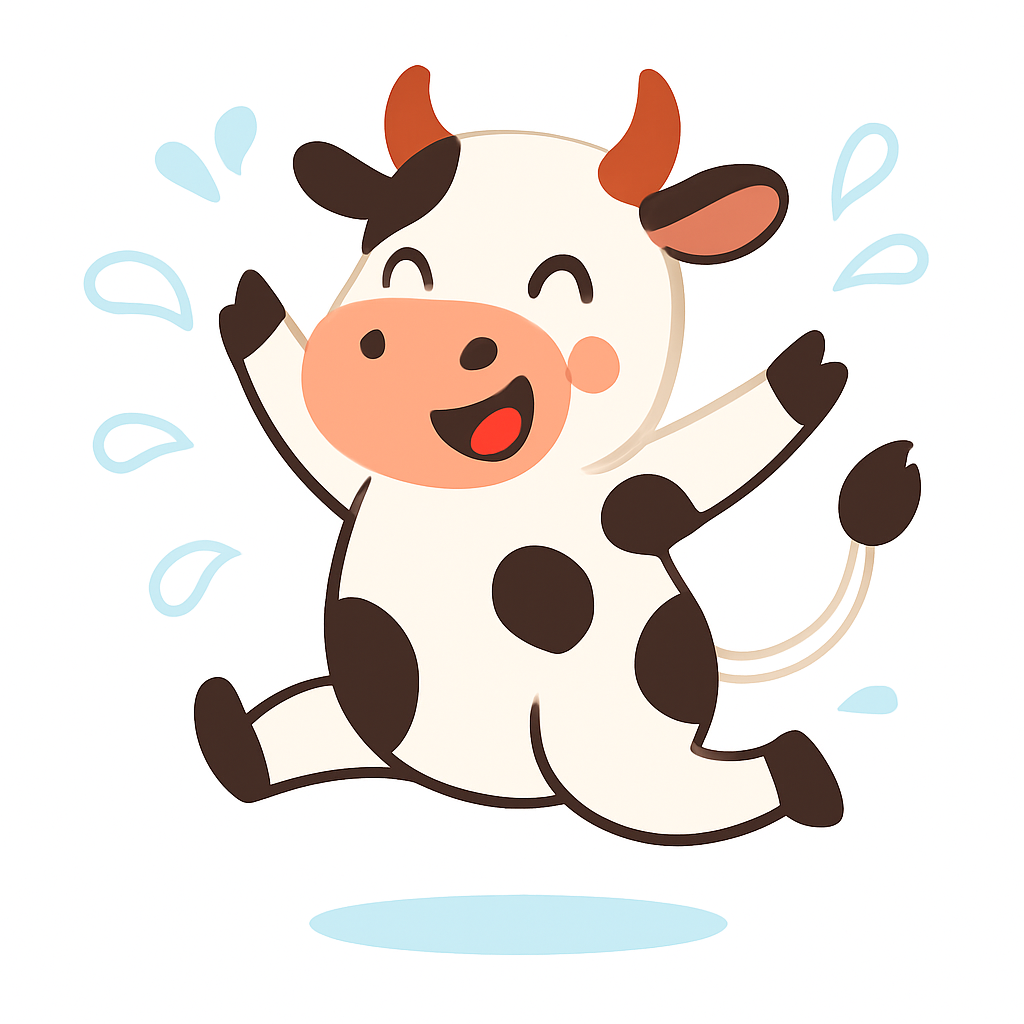
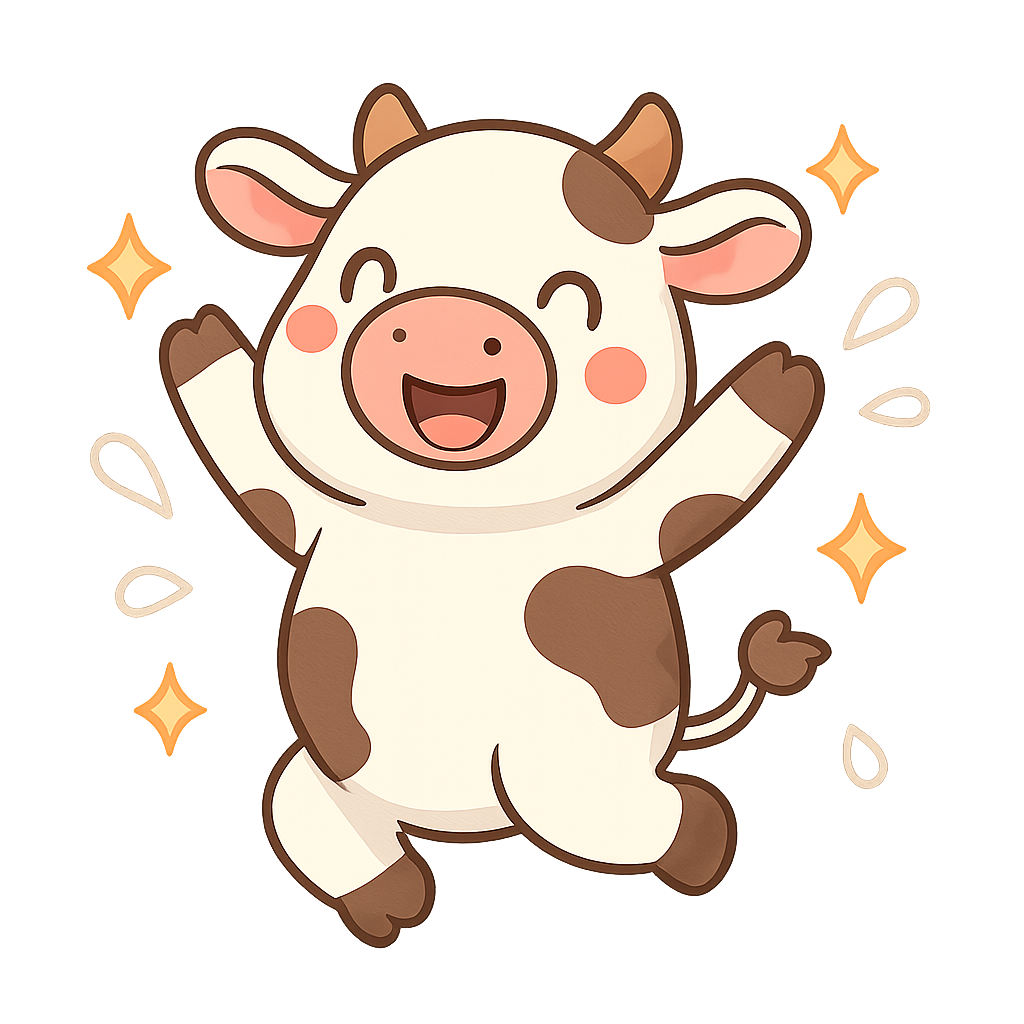
feat: add confetti animation and background effects to success page

diff --git a/app/success/page.tsx b/app/success/page.tsx
@@ -1,20 +1,38 @@
 "use client";
 
-import { useEffect, useState, Suspense } from "react";
+import { useEffect, useState, Suspense, useRef } from "react";
 import { useSearchParams } from "next/navigation";
 import Image from "next/image";
 import Link from "next/link";
-import { motion } from "framer-motion";
-import { CheckCircle2, ArrowRight, Loader2, Package } from "lucide-react";
+import { motion, useAnimationControls } from "framer-motion";
+import { CheckCircle2, ArrowRight, Loader2, Package, Sparkles } from "lucide-react";
 import { Button } from "@/components/ui/button";
 import { Separator } from "@/components/ui/separator";
-import { Badge } from "@/components/ui/badge";
 import type { Order } from "@/types";
+
+// Confetti particle
+function ConfettiParticle({ delay, x, color }: { delay: number; x: number; color: string }) {
+  return (
+    <motion.div
+      className="absolute top-0 w-2 h-3 rounded-sm"
+      style={{ left: `${x}%`, backgroundColor: color }}
+      initial={{ y: -20, opacity: 1, rotate: 0 }}
+      animate={{ y: "100vh", opacity: [1, 1, 0], rotate: 360 * 3 }}
+      transition={{ duration: 2.5 + Math.random(), delay, ease: "easeIn" }}
+    />
+  );
+}
+
+const CONFETTI = Array.from({ length: 30 }, (_, i) => ({
+  id: i,
+  delay: Math.random() * 1.2,
+  x: Math.random() * 100,
+  color: ["#3B82F6", "#60A5FA", "#BFDBFE", "#FDE68A", "#6EE7B7", "#FCA5A5"][Math.floor(Math.random() * 6)],
+}));
 
 function SuccessContent() {
   const searchParams = useSearchParams();
   const orderNumber = searchParams.get("order");
-
   const [order, setOrder] = useState<Order | null>(null);
   const [loading, setLoading] = useState(true);
 
@@ -29,120 +47,153 @@ function SuccessContent() {
 
   if (loading) {
     return (
-      <div className="py-20 flex items-center justify-center">
+      <div className="min-h-[60vh] flex items-center justify-center">
         <Loader2 className="size-8 animate-spin text-primary" />
       </div>
     );
   }
 
   return (
-    <div className="py-10">
-      <div className="container mx-auto px-4 max-w-lg">
+    <div className="relative min-h-[calc(100vh-80px)] overflow-hidden">
+      {/* Confetti */}
+      <div className="pointer-events-none fixed inset-0 z-50 overflow-hidden">
+        {CONFETTI.map((p) => (
+          <ConfettiParticle key={p.id} delay={p.delay} x={p.x} color={p.color} />
+        ))}
+      </div>
+
+      {/* Background blobs */}
+      <div className="absolute inset-0 pointer-events-none">
+        <div className="absolute top-0 left-1/4 w-96 h-96 bg-primary/5 rounded-full blur-3xl" />
+        <div className="absolute bottom-10 right-1/4 w-72 h-72 bg-blue-100/60 rounded-full blur-3xl" />
+      </div>
+
+      <div className="relative container mx-auto px-4 max-w-2xl py-12 flex flex-col items-center gap-10">
+
+        {/* Cow hero */}
         <motion.div
-          initial={{ opacity: 0, y: 24 }}
-          animate={{ opacity: 1, y: 0 }}
-          transition={{ duration: 0.45 }}
-          className="bg-card border border-border rounded-2xl overflow-hidden"
+          initial={{ scale: 0.5, opacity: 0, y: 20 }}
+          animate={{ scale: 1, opacity: 1, y: 0 }}
+          transition={{ type: "spring", stiffness: 200, damping: 15 }}
+          className="relative"
         >
-          {/* Top banner with cow */}
-          <div className="bg-primary/5 border-b border-border flex flex-col items-center gap-2 pt-8 pb-0">
+          <motion.div
+            animate={{ y: [0, -12, 0] }}
+            transition={{ duration: 2.2, repeat: Infinity, ease: "easeInOut" }}
+          >
+            <Image
+              src="/happy-cow.png"
+              alt="Весёлая корова"
+              width={220}
+              height={220}
+              className="object-contain drop-shadow-xl"
+              priority
+            />
+          </motion.div>
+          {/* Sparkles around cow */}
+          {[[-30, -10], [30, -20], [-20, 30], [40, 20]].map(([ox, oy], i) => (
             <motion.div
-              initial={{ scale: 0.7, opacity: 0 }}
+              key={i}
+              className="absolute"
+              style={{ left: `calc(50% + ${ox}px)`, top: `calc(50% + ${oy}px)` }}
+              animate={{ scale: [0, 1.2, 0], opacity: [0, 1, 0] }}
+              transition={{ duration: 1.5, delay: i * 0.3, repeat: Infinity, repeatDelay: 1 }}
+            >
+              <Sparkles className="size-5 text-yellow-400" />
+            </motion.div>
+          ))}
+        </motion.div>
+
+        {/* Main text */}
+        <motion.div
+          initial={{ opacity: 0, y: 20 }}
+          animate={{ opacity: 1, y: 0 }}
+          transition={{ delay: 0.25 }}
+          className="text-center flex flex-col gap-3"
+        >
+          <div className="flex items-center justify-center gap-2">
+            <CheckCircle2 className="size-8 text-green-500 shrink-0" />
+            <h1 className="text-4xl font-bold text-foreground text-balance">Спасибо за заказ!</h1>
+          </div>
+          <p className="text-lg text-muted-foreground text-balance">
+            Оплата прошла успешно — уже начинаем готовить для вас.
+          </p>
+          {order && (
+            <motion.div
+              initial={{ scale: 0.8, opacity: 0 }}
               animate={{ scale: 1, opacity: 1 }}
-              transition={{ delay: 0.15, type: "spring", stiffness: 180 }}
+              transition={{ delay: 0.4, type: "spring" }}
+              className="inline-flex items-center self-center gap-2 bg-green-50 border border-green-200 text-green-700 font-semibold rounded-full px-5 py-2 text-sm mt-1"
             >
-              <Image
-                src="/happy-cow.png"
-                alt="Весёлая корова"
-                width={160}
-                height={160}
-                className="object-contain drop-shadow-md"
-                priority
-              />
+              <CheckCircle2 className="size-4" />
+              Заказ {order.orderNumber}
             </motion.div>
-          </div>
+          )}
+        </motion.div>
 
-          <div className="p-8 flex flex-col gap-6 text-center">
-            {/* Status */}
-            <motion.div
-              initial={{ opacity: 0, y: 12 }}
-              animate={{ opacity: 1, y: 0 }}
-              transition={{ delay: 0.3 }}
-              className="flex flex-col gap-2 items-center"
-            >
-              <div className="flex items-center gap-2 justify-center">
-                <CheckCircle2 className="size-6 text-[#22C55E]" />
-                <h1 className="text-2xl font-bold text-foreground">Спасибо за заказ!</h1>
-              </div>
-              <p className="text-muted-foreground text-balance">
-                Оплата прошла успешно. Уже начинаем готовить.
-              </p>
-              {order && (
-                <Badge className="bg-[#22C55E]/10 text-[#22C55E] border-[#22C55E]/20 text-sm px-3 py-1 mt-1">
-                  {order.orderNumber}
-                </Badge>
-              )}
-            </motion.div>
-
-            {/* Order items */}
-            {order && order.items?.length > 0 && (
-              <motion.div
-                initial={{ opacity: 0 }}
-                animate={{ opacity: 1 }}
-                transition={{ delay: 0.4 }}
-                className="flex flex-col gap-3 text-left bg-muted/40 rounded-xl p-4"
-              >
-                <p className="text-xs text-muted-foreground font-medium uppercase tracking-wide">Состав заказа</p>
-                {order.items.map((item, idx) => (
-                  <div key={item.productId ?? idx} className="flex items-center justify-between text-sm gap-2">
-                    <span className="text-foreground line-clamp-1 flex-1">
-                      {item.productName}
-                      <span className="text-muted-foreground ml-1">× {item.quantity}</span>
-                    </span>
-                    <span className="font-medium text-foreground shrink-0">
-                      {(item.price * item.quantity).toLocaleString("ru-RU")} ₽
-                    </span>
+        {/* Order summary */}
+        {order && order.items?.length > 0 && (
+          <motion.div
+            initial={{ opacity: 0, y: 16 }}
+            animate={{ opacity: 1, y: 0 }}
+            transition={{ delay: 0.45 }}
+            className="w-full bg-card border border-border rounded-2xl overflow-hidden"
+          >
+            <div className="px-6 py-4 border-b border-border bg-muted/30">
+              <p className="text-sm font-semibold text-foreground uppercase tracking-wide">Состав заказа</p>
+            </div>
+            <div className="px-6 py-4 flex flex-col gap-3">
+              {order.items.map((item, idx) => (
+                <div key={item.productId ?? idx} className="flex items-center justify-between gap-4">
+                  <div className="flex-1 min-w-0">
+                    <p className="text-sm font-medium text-foreground leading-snug line-clamp-2">{item.productName}</p>
+                    <p className="text-xs text-muted-foreground mt-0.5">{item.quantity} шт. × {item.price.toLocaleString("ru-RU")} ₽</p>
                   </div>
-                ))}
-                <Separator />
-                <div className="flex items-center justify-between text-sm font-bold">
-                  <span className="text-foreground">Итого</span>
-                  <span className="text-foreground text-base">{order.totalAmount.toLocaleString("ru-RU")} ₽</span>
+                  <span className="text-sm font-bold text-foreground shrink-0">
+                    {(item.price * item.quantity).toLocaleString("ru-RU")} ₽
+                  </span>
                 </div>
-              </motion.div>
-            )}
+              ))}
+              <Separator />
+              <div className="flex items-center justify-between">
+                <span className="text-base font-bold text-foreground">Итого</span>
+                <span className="text-2xl font-bold text-foreground">
+                  {order.totalAmount.toLocaleString("ru-RU")} ₽
+                </span>
+              </div>
+            </div>
+          </motion.div>
+        )}
 
-            {/* Hint */}
-            <motion.p
-              initial={{ opacity: 0 }}
-              animate={{ opacity: 1 }}
-              transition={{ delay: 0.5 }}
-              className="text-xs text-muted-foreground text-balance"
-            >
-              Статус заказа можно отследить по номеру телефона в разделе «Мои заказы»
-            </motion.p>
+        {/* Info hint */}
+        <motion.p
+          initial={{ opacity: 0 }}
+          animate={{ opacity: 1 }}
+          transition={{ delay: 0.6 }}
+          className="text-sm text-muted-foreground text-center text-balance"
+        >
+          Отслеживайте статус заказа в разделе «Мои заказы» по номеру телефона
+        </motion.p>
 
-            {/* Buttons */}
-            <motion.div
-              initial={{ opacity: 0, y: 8 }}
-              animate={{ opacity: 1, y: 0 }}
-              transition={{ delay: 0.55 }}
-              className="flex flex-col gap-3"
-            >
-              <Link href="/orders">
-                <Button variant="outline" className="w-full gap-2 border-border">
-                  <Package className="size-4" />
-                  Мои заказы
-                </Button>
-              </Link>
-              <Link href="/catalog">
-                <Button className="w-full gap-2">
-                  Продолжить покупки
-                  <ArrowRight className="size-4" data-icon="inline-end" />
-                </Button>
-              </Link>
-            </motion.div>
-          </div>
+        {/* Actions */}
+        <motion.div
+          initial={{ opacity: 0, y: 12 }}
+          animate={{ opacity: 1, y: 0 }}
+          transition={{ delay: 0.65 }}
+          className="flex flex-col sm:flex-row gap-3 w-full"
+        >
+          <Link href="/orders" className="flex-1">
+            <Button variant="outline" className="w-full gap-2 h-12 text-base">
+              <Package className="size-5" />
+              Мои заказы
+            </Button>
+          </Link>
+          <Link href="/catalog" className="flex-1">
+            <Button className="w-full gap-2 h-12 text-base">
+              Продолжить покупки
+              <ArrowRight className="size-5" />
+            </Button>
+          </Link>
         </motion.div>
       </div>
     </div>
@@ -152,7 +203,7 @@ function SuccessContent() {
 export default function SuccessPage() {
   return (
     <Suspense fallback={
-      <div className="py-20 flex items-center justify-center">
+      <div className="min-h-[60vh] flex items-center justify-center">
         <Loader2 className="size-8 animate-spin text-primary" />
       </div>
     }>
